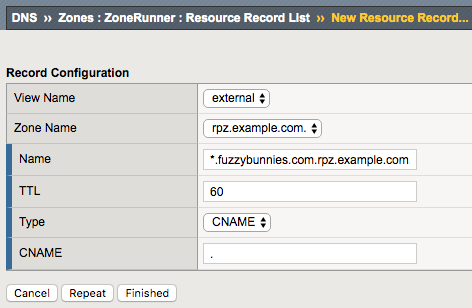
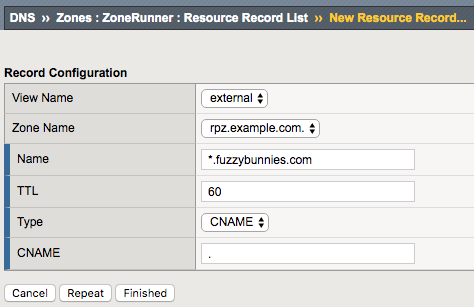
updated rpz page

Changed region(s): [[0.0, 0.2052, 1.0, 0.9967], [0.0, 0.0293, 1.0, 0.0879]]

diff --git a/docs/class2/module6/lab1.rst b/docs/class2/module6/lab1.rst
@@ -36,7 +36,7 @@ Navigate to: **DNS  ››  Zones : ZoneRunner : Resource Record List**
 .. image:: /class2/media/zonerunner_create_resource_record.png
    :scale: 50
 
-Create a resource record according to the following table:
+Create a resource record according to the following table. Note the *Name* must not be fully qualified as its the hostname portion of the resource record! 
 
 .. csv-table::
    :header: "Setting", "Value"
@@ -44,8 +44,8 @@ Create a resource record according to the following table:
 
    "View Name", "external"
    "Zone Name", "rpz.example.com"
-   "Name", "\*.fuzzybunnies.com.rpz.example.com."
-   "TTL", "300"
+   "Name", "\*.fuzzybunnies.com"
+   "TTL", "60"
    "Type", "CNAME"
    "CNAME", "."
 
